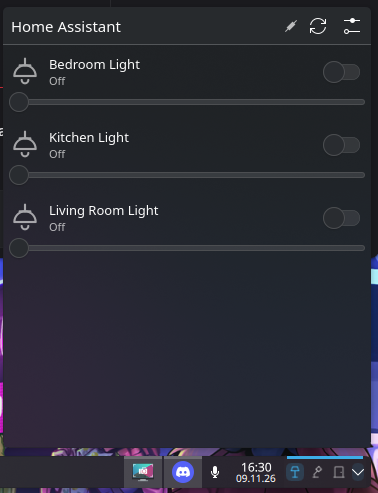
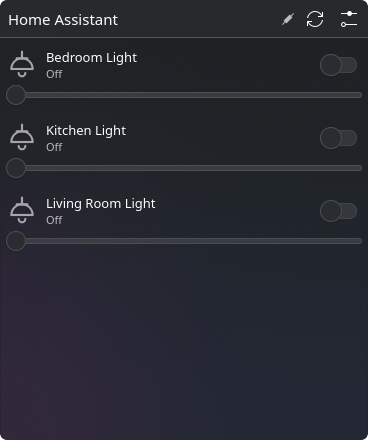
README: crop popup screenshot to the widget

diff --git a/README.md b/README.md
@@ -4,7 +4,7 @@ A KDE Plasma 6 widget (plasmoid) that puts your Home Assistant lights, switches,
 fans, covers and more into the panel or onto the desktop.
 
 <p>
-  <img src="docs/screenshots/popup.png" alt="Popup with the full entity list, opened from the panel" width="378">
+  <img src="docs/screenshots/popup.png" alt="Popup with the full entity list, opened from the panel" width="368">
   &nbsp;
   <img src="docs/screenshots/panel.png" alt="Pinned entities as icon buttons in the panel, followed by the chevron" width="255">
 </p>
